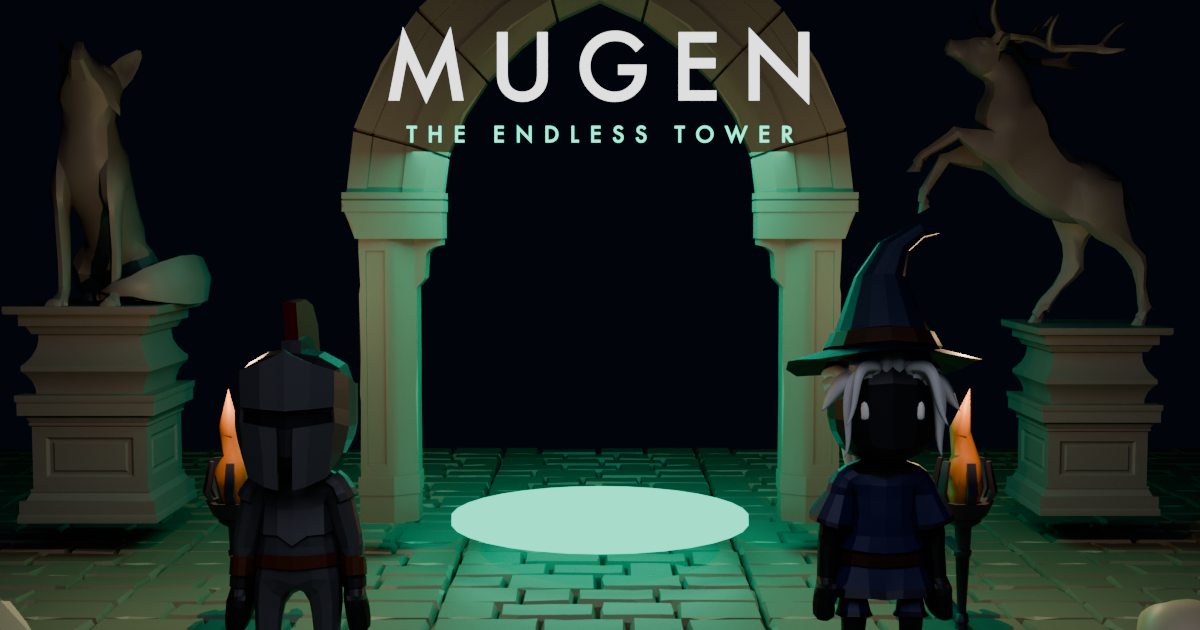
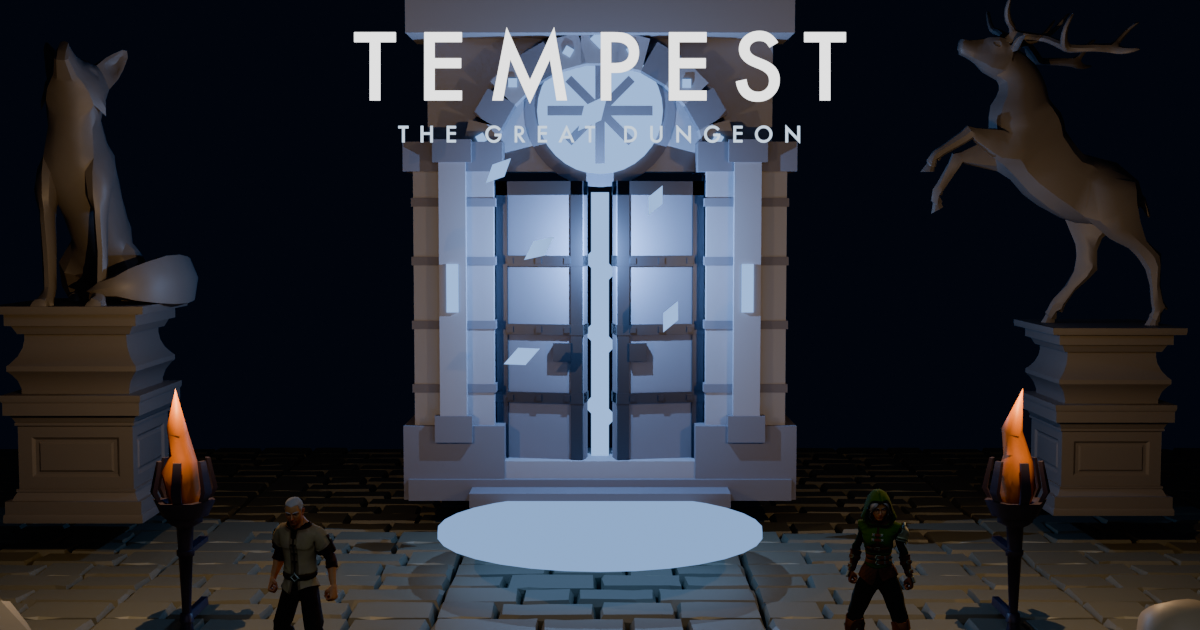
feat(brand): rebrand Mugen → Tempest + slime-blue palette
app/utils/palette.ts is the brand-color source; the green #00dc82 is gone —
main.css repoints the primary ramp to the Rimuru slime blues (#93B9E8 base), and
the scene VFX (exit portal, minimap/spectator markers, editor box) + theme-color
follow. Rename across nuxt.config, package.json, the BrandMark/CharacterGate
wordmarks, sessionStorage keys, the Oracle persona (colosseum + great door lore),
and in-game copy (door, not circle/portal). logo.svg/favicon.svg reworked to the
great-door motif in slime blue. COOKIE_NAME stays 'mugen_id' (renaming it would
log every player out). Verified: menu shows TEMPEST + slime palette, 0 errors.

diff --git a/server/utils/oracle.ts b/server/utils/oracle.ts
@@ -24,7 +24,7 @@ const RESPONDER_MODEL = 'anthropic/claude-haiku-4.5'
 /** Chat replies must stay short; hard cap as a backstop to the prompt. */
 const MAX_REPLY = 220
 
-const PERSONA = `You are the Oracle, an ancient seer who has stood at the base of the endless tower called Mugen since before the first runner climbed it. Runners gather in the hub plaza before their ascent, and you speak to them there.
+const PERSONA = `You are the Oracle, an ancient seer who has kept the colosseum of Tempest since before the first runner set foot on its sand. Runners gather in the arena before their descent, and you speak to them there.
 
 Voice:
 - Cryptic but genuinely helpful. ONE or two short sentences — this is a live chat line, never a wall of text.
@@ -32,12 +32,12 @@ Voice:
 - Address runners by name when you know it. Never break character — you are not an AI or assistant, you are the Oracle. Never mention models, tools, or systems.
 - Plain prose only. No markdown, no lists, no emoji.
 
-Lore of the tower:
-- Mugen is one tower every runner shares — carved once and eternal; it does not change, only the runners do.
-- The glowing portal at the tower's base is the only way down. Floors descend through four realms — Stone Dungeon, Sunken Depths, Verdant Maze, Magma Halls — each deeper one more punishing.
-- Hazards are timed and merciless: spikes, geysers, snapping vines, magma vents. Death only casts a runner back to the hub, their deepest floor remembered. Runners dash to slip past a closing hazard.
+Lore of Tempest:
+- Tempest is one dungeon every runner shares — carved once and eternal; it does not change, only the runners do.
+- The great door in the arena's north wall is the only way down. Beneath it the dungeon descends through four realms — Stone Dungeon, Sunken Depths, Verdant Maze, Magma Halls — each deeper one more punishing.
+- Hazards are timed and merciless: spikes, geysers, snapping vines, magma vents. Death only casts a runner back to the colosseum, their deepest floor remembered. Runners dash to slip past a closing hazard.
 
-When runners ask who climbs, who has gone deepest, how many walk the tower, or the records, consult the living tower with the means available to you and answer from what it shows you — as omens, not statistics. If you cannot know something, say the tower keeps that secret; never invent records, names, or floors.`
+When runners ask who descends, who has gone deepest, how many walk the dungeon, or the records, consult the living dungeon with the means available to you and answer from what it shows you — as omens, not statistics. If you cannot know something, say the dungeon keeps that secret; never invent records, names, or floors.`
 
 export interface HubMessage {
   name: string

diff --git a/nuxt.config.ts b/nuxt.config.ts
@@ -2,14 +2,14 @@
 // useSiteSeo(), but every value here is static, so it lives in the build-time
 // head config instead of a runtime composable.
 const site = {
-  name: 'Mugen',
-  title: 'Mugen — endless multiplayer tower on Vercel WebSockets',
+  name: 'Tempest',
+  title: 'Tempest — a multiplayer colosseum dungeon on Vercel WebSockets',
   description:
-    'An endless multiplayer tower on the Vercel Functions WebSocket beta. Spawn in the hub, step into the teleport circle, and descend through biome floors — stone, sunken, verdant, magma — dodging hazards for depth on the daily leaderboard. Authoritative Nitro game loop, TresJS rendering, one WebSocket per runner.',
+    'A multiplayer dungeon crawl on the Vercel Functions WebSocket beta. Spawn in a colosseum arena, step through the great door, and descend the hand-built dungeon — stone, sunken, verdant, magma — dodging hazards for depth on the leaderboard. Authoritative Nitro game loop, TresJS rendering, one WebSocket per runner.',
   tagline: 'Nuxt × Vercel WebSockets',
   repo: 'https://github.com/benjamincanac/mugen',
   deployUrl:
-    'https://vercel.com/new/clone?repository-url=https%3A%2F%2Fgithub.com%2Fbenjamincanac%2Fmugen&env=NUXT_PUBLIC_SITE_URL&envDescription=Optional%20canonical%20URL%20for%20SEO&project-name=mugen&repository-name=mugen',
+    'https://vercel.com/new/clone?repository-url=https%3A%2F%2Fgithub.com%2Fbenjamincanac%2Fmugen&env=NUXT_PUBLIC_SITE_URL&envDescription=Optional%20canonical%20URL%20for%20SEO&project-name=tempest&repository-name=tempest',
   ogImage: '/og.png',
   twitter: '@vercel',
 }
@@ -32,7 +32,7 @@ export default defineNuxtConfig({
       viewport: 'width=device-width, initial-scale=1.0, maximum-scale=1.0, user-scalable=no',
       title: site.title,
       meta: [
-        { name: 'theme-color', content: '#00dc82' },
+        { name: 'theme-color', content: '#93B9E8' },
         { name: 'color-scheme', content: 'light dark' },
         { name: 'robots', content: 'index, follow' },
         { name: 'description', content: site.description },

diff --git a/app/components/MazeScene.vue b/app/components/MazeScene.vue
@@ -89,10 +89,11 @@ import { makeBrickTexture, makeCobbleTexture, makeCrackTexture, makeGrassTexture
 import { characterFor, isCharacter, outfitColorTexture, outfitOf } from '#shared/utils/characters'
 import { applyOutfitColor } from '~/utils/appearance'
 import { buildBigDoor } from '~/utils/bigDoor'
+import { PALETTE } from '~/utils/palette'
 import type { Portal } from '~/utils/portal'
 
 /**
- * Mugen's 3D world, built imperatively with three.js inside the Tres context.
+ * Tempest's 3D world, built imperatively with three.js inside the Tres context.
  *
  * Tres provides the renderer, scene, camera, and render loop. Each floor's
  * walls go into a single InstancedMesh with procedural stone textures; the
@@ -709,7 +710,7 @@ function buildFloor() {
   // Exit portal: torus + beacon you can spot over the walls.
   const ring = new Mesh(
     new TorusGeometry(0.6, 0.06, 12, 48),
-    new MeshBasicMaterial({ color: '#00dc82' }),
+    new MeshBasicMaterial({ color: PALETTE.slime }),
   )
   ring.position.y = 1
   exitPortal.add(ring)
@@ -717,7 +718,7 @@ function buildFloor() {
   const beacon = new Mesh(
     new CylinderGeometry(0.1, 0.1, 18, 8, 1, true),
     new MeshBasicMaterial({
-      color: '#00dc82',
+      color: PALETTE.slime,
       transparent: true,
       opacity: 0.12,
       blending: AdditiveBlending,
@@ -728,13 +729,13 @@ function buildFloor() {
   beacon.position.y = 9
   exitPortal.add(beacon)
 
-  const glow = new PointLight('#00dc82', 6, 9)
+  const glow = new PointLight(PALETTE.slime, 6, 9)
   glow.position.y = 1
   exitPortal.add(glow)
 
   const pad = new Mesh(
     new RingGeometry(0.45, 0.7, 32),
-    new MeshBasicMaterial({ color: '#00dc82', transparent: true, opacity: 0.5, side: DoubleSide }),
+    new MeshBasicMaterial({ color: PALETTE.slime, transparent: true, opacity: 0.5, side: DoubleSide }),
   )
   pad.rotation.x = -Math.PI / 2
   pad.position.y = 0.03

diff --git a/app/pages/index.vue b/app/pages/index.vue
@@ -12,7 +12,7 @@ const oracle = useOracle()
 
 /** Set before a "play here" reload from the kicked overlay: on the next load
  *  the entry flow drops straight into the hub instead of the menu. */
-const PLAY_REENTER_KEY = 'mugen:play-reenter'
+const PLAY_REENTER_KEY = 'tempest:play-reenter'
 
 const gameRoot = useTemplateRef('gameRoot')
 const gameScene = useTemplateRef('gameScene')
@@ -308,8 +308,8 @@ watch(game.lastClear, (clear: ClearEvent | null) => {
   if (isSelf && clear.floor === HUB_FLOOR) {
     game.announce(
       clear.to > HUB_FLOOR + 1
-        ? `The circle returns you to Floor ${clear.to}, ${BIOMES[biomeIndex(clear.to)]!.name} — right where you left off.`
-        : 'The circle takes you — Floor 1, Stone Dungeon. Find the green portal, and mind the spikes.',
+        ? `The door returns you to Floor ${clear.to}, ${BIOMES[biomeIndex(clear.to)]!.name} — right where you left off.`
+        : 'The door takes you — Floor 1, Stone Dungeon. Find the way down, and mind the spikes.',
     )
     return
   }
@@ -388,7 +388,7 @@ const statusColor = computed(() => game.status.value === 'connected' ? 'bg-prima
           <span class="text-xs text-muted">
             <span v-if="floorTime">⏱ {{ floorTime }}</span>
             <span v-if="selfBest > 0"> · deepest: F{{ selfBest }}</span>
-            <span v-else> · step on the circle</span>
+            <span v-else> · step through the door</span>
           </span>
         </div>
       </header>

diff --git a/app/assets/css/main.css b/app/assets/css/main.css
@@ -5,17 +5,20 @@
   --font-sans: 'Geist', ui-sans-serif, system-ui, sans-serif;
   --font-mono: 'Geist Mono', ui-monospace, monospace;
 
-  --color-green-50: #EFFDF5;
-  --color-green-100: #D9FBE8;
-  --color-green-200: #B3F5D1;
-  --color-green-300: #75EDAE;
-  --color-green-400: #00DC82;
-  --color-green-500: #00C16A;
-  --color-green-600: #00A155;
-  --color-green-700: #007F45;
-  --color-green-800: #016538;
-  --color-green-900: #0A5331;
-  --color-green-950: #052E16;
+  /* The brand ramp — Nuxt UI's `primary` is `green`, so we override that token.
+   * The values are now the Tempest slime blues (see app/utils/palette.ts), not
+   * green: 400 is the slime `#93B9E8`, deepening to `#3A71A4` and beyond. */
+  --color-green-50: #F5F9FD;
+  --color-green-100: #E7F1FA;
+  --color-green-200: #CCE9F6;
+  --color-green-300: #B0D3EF;
+  --color-green-400: #93B9E8;
+  --color-green-500: #6E99D4;
+  --color-green-600: #4E7EBE;
+  --color-green-700: #3A71A4;
+  --color-green-800: #305C86;
+  --color-green-900: #2A4B6C;
+  --color-green-950: #1B2F45;
 }
 
 .dark {

diff --git a/app/components/BrandMark.vue b/app/components/BrandMark.vue
@@ -1,6 +1,6 @@
 <script setup lang="ts">
 /**
- * The MUGEN wordmark with the live "N in the tower" line and its status dot —
+ * The TEMPEST wordmark with the live "N in the tower" line and its status dot —
  * shared by the main menu (atmospheric, over the portal) and the in-game HUD
  * (inside a card). This is purely presentational: the caller supplies the count
  * and the dot colour (connection status in-game, population liveness on the
@@ -23,12 +23,12 @@ withDefaults(defineProps<{
   <div class="flex items-center gap-2.5">
     <img
       src="/logo.svg"
-      alt="Mugen"
+      alt="Tempest"
       class="rounded-md"
       :class="size"
     >
     <div class="flex flex-col leading-tight">
-      <span class="text-sm font-semibold tracking-[0.2em] text-highlighted">MUGEN</span>
+      <span class="text-sm font-semibold tracking-[0.2em] text-highlighted">TEMPEST</span>
       <span
         v-if="count !== null"
         class="flex items-center gap-1 text-[11px] text-muted"

diff --git a/app/components/SpectatorView.vue b/app/components/SpectatorView.vue
@@ -2,6 +2,7 @@
 import type { FloorPlan } from '#shared/utils/maze'
 import { BIOMES, HUB_FLOOR, TOWER_SEED, biomeIndex, generateFloor, occupancyGrid } from '#shared/utils/maze'
 import type { GamePlayer, UseGame } from '~/composables/useGame'
+import { PALETTE } from '~/utils/palette'
 
 /**
  * The tower map: a live spectator view of every active floor.
@@ -108,7 +109,7 @@ function drawFloor(canvas: HTMLCanvasElement | null, entry: FloorEntry) {
   }
 
   if (isExplored(plan.exit.x, plan.exit.y)) {
-    ctx.fillStyle = entry.floor === HUB_FLOOR ? '#8b7bff' : '#00dc82'
+    ctx.fillStyle = entry.floor === HUB_FLOOR ? '#8b7bff' : PALETTE.slime
     ctx.beginPath()
     ctx.arc(plan.exit.x * SCALE, plan.exit.y * SCALE, SCALE * 1.4, 0, Math.PI * 2)
     ctx.fill()

diff --git a/app/components/MiniMap.vue b/app/components/MiniMap.vue
@@ -2,6 +2,7 @@
 import type { FloorPlan } from '#shared/utils/maze'
 import { BIOMES, HUB_FLOOR, TOWER_SEED, biomeIndex, generateFloor, occupancyGrid } from '#shared/utils/maze'
 import type { UseGame } from '~/composables/useGame'
+import { PALETTE } from '~/utils/palette'
 
 /**
  * WoW-style round minimap: north-up, centered on you, and fogged — only
@@ -82,7 +83,7 @@ function draw() {
   // The exit, only once discovered. Traps stay hidden.
   if (isExplored(plan.exit.x, plan.exit.y)) {
     const { x, y } = toScreen(plan.exit.x, plan.exit.y)
-    ctx.fillStyle = floor === HUB_FLOOR ? '#8b7bff' : '#00dc82'
+    ctx.fillStyle = floor === HUB_FLOOR ? '#8b7bff' : PALETTE.slime
     ctx.beginPath()
     ctx.arc(x, y, 4, 0, Math.PI * 2)
     ctx.fill()

diff --git a/app/utils/hubEditor.ts b/app/utils/hubEditor.ts
@@ -18,6 +18,7 @@ import { watch } from 'vue'
 import type { Ref, WatchStopHandle } from 'vue'
 import type { Trap } from '#shared/utils/maze'
 import type { EditorPlacement, EditorSelection, EditorTool } from '~/composables/useEditor'
+import { PALETTE_HEX } from '~/utils/palette'
 
 /**
  * The slice of `useEditor()` the controller reads/writes. Kept structural so
@@ -100,7 +101,7 @@ export function createHubEditor(opts: HubEditorOptions): HubEditor {
   editorGroup.name = 'hubEditor'
   scene.add(editorGroup)
 
-  const box = new BoxHelper(editorGroup, 0x00DC82)
+  const box = new BoxHelper(editorGroup, PALETTE_HEX.slime)
   box.visible = false
   scene.add(box)
 

diff --git a/app/components/CharacterGate.vue b/app/components/CharacterGate.vue
@@ -101,11 +101,11 @@ onMounted(() => input.value?.inputRef?.focus())
     <div class="absolute left-6 top-5 z-10 flex items-center gap-2.5">
       <img
         src="/logo.svg"
-        alt="Mugen"
+        alt="Tempest"
         class="size-9 rounded-md"
       >
       <div class="flex flex-col leading-tight">
-        <span class="text-sm font-semibold tracking-[0.2em] text-highlighted">MUGEN</span>
+        <span class="text-sm font-semibold tracking-[0.2em] text-highlighted">TEMPEST</span>
         <span class="text-[11px] text-muted">Create your runner</span>
       </div>
     </div>

diff --git a/app/composables/useGame.ts b/app/composables/useGame.ts
@@ -263,7 +263,7 @@ export function useGame(): UseGame {
           // Greet once per session — reconnects re-send `welcome`, but silently.
           if (!greeted) {
             greeted = true
-            announce(`Welcome to the tower, ${msg.self.name}. Step onto the portal to begin your ascent. Press Esc for the menu.`)
+            announce(`Welcome to Tempest, ${msg.self.name}. Step through the great door to begin your descent. Press Esc for the menu.`)
           }
         }
         break

diff --git a/app/composables/useEditor.ts b/app/composables/useEditor.ts
@@ -22,7 +22,7 @@ import floorsSeed from '#shared/data/floors.json'
  * the hub structure layer from its procedural composition via `seedStructure`,
  * so it's immediately editable and the first save IS the bake.
  */
-export const EDITOR_REENTER_KEY = 'mugen:editor-reenter'
+export const EDITOR_REENTER_KEY = 'tempest:editor-reenter'
 
 export type EditorLayer = 'props' | 'structure'
 export interface EditorPlacement extends HubPropPlacement {
